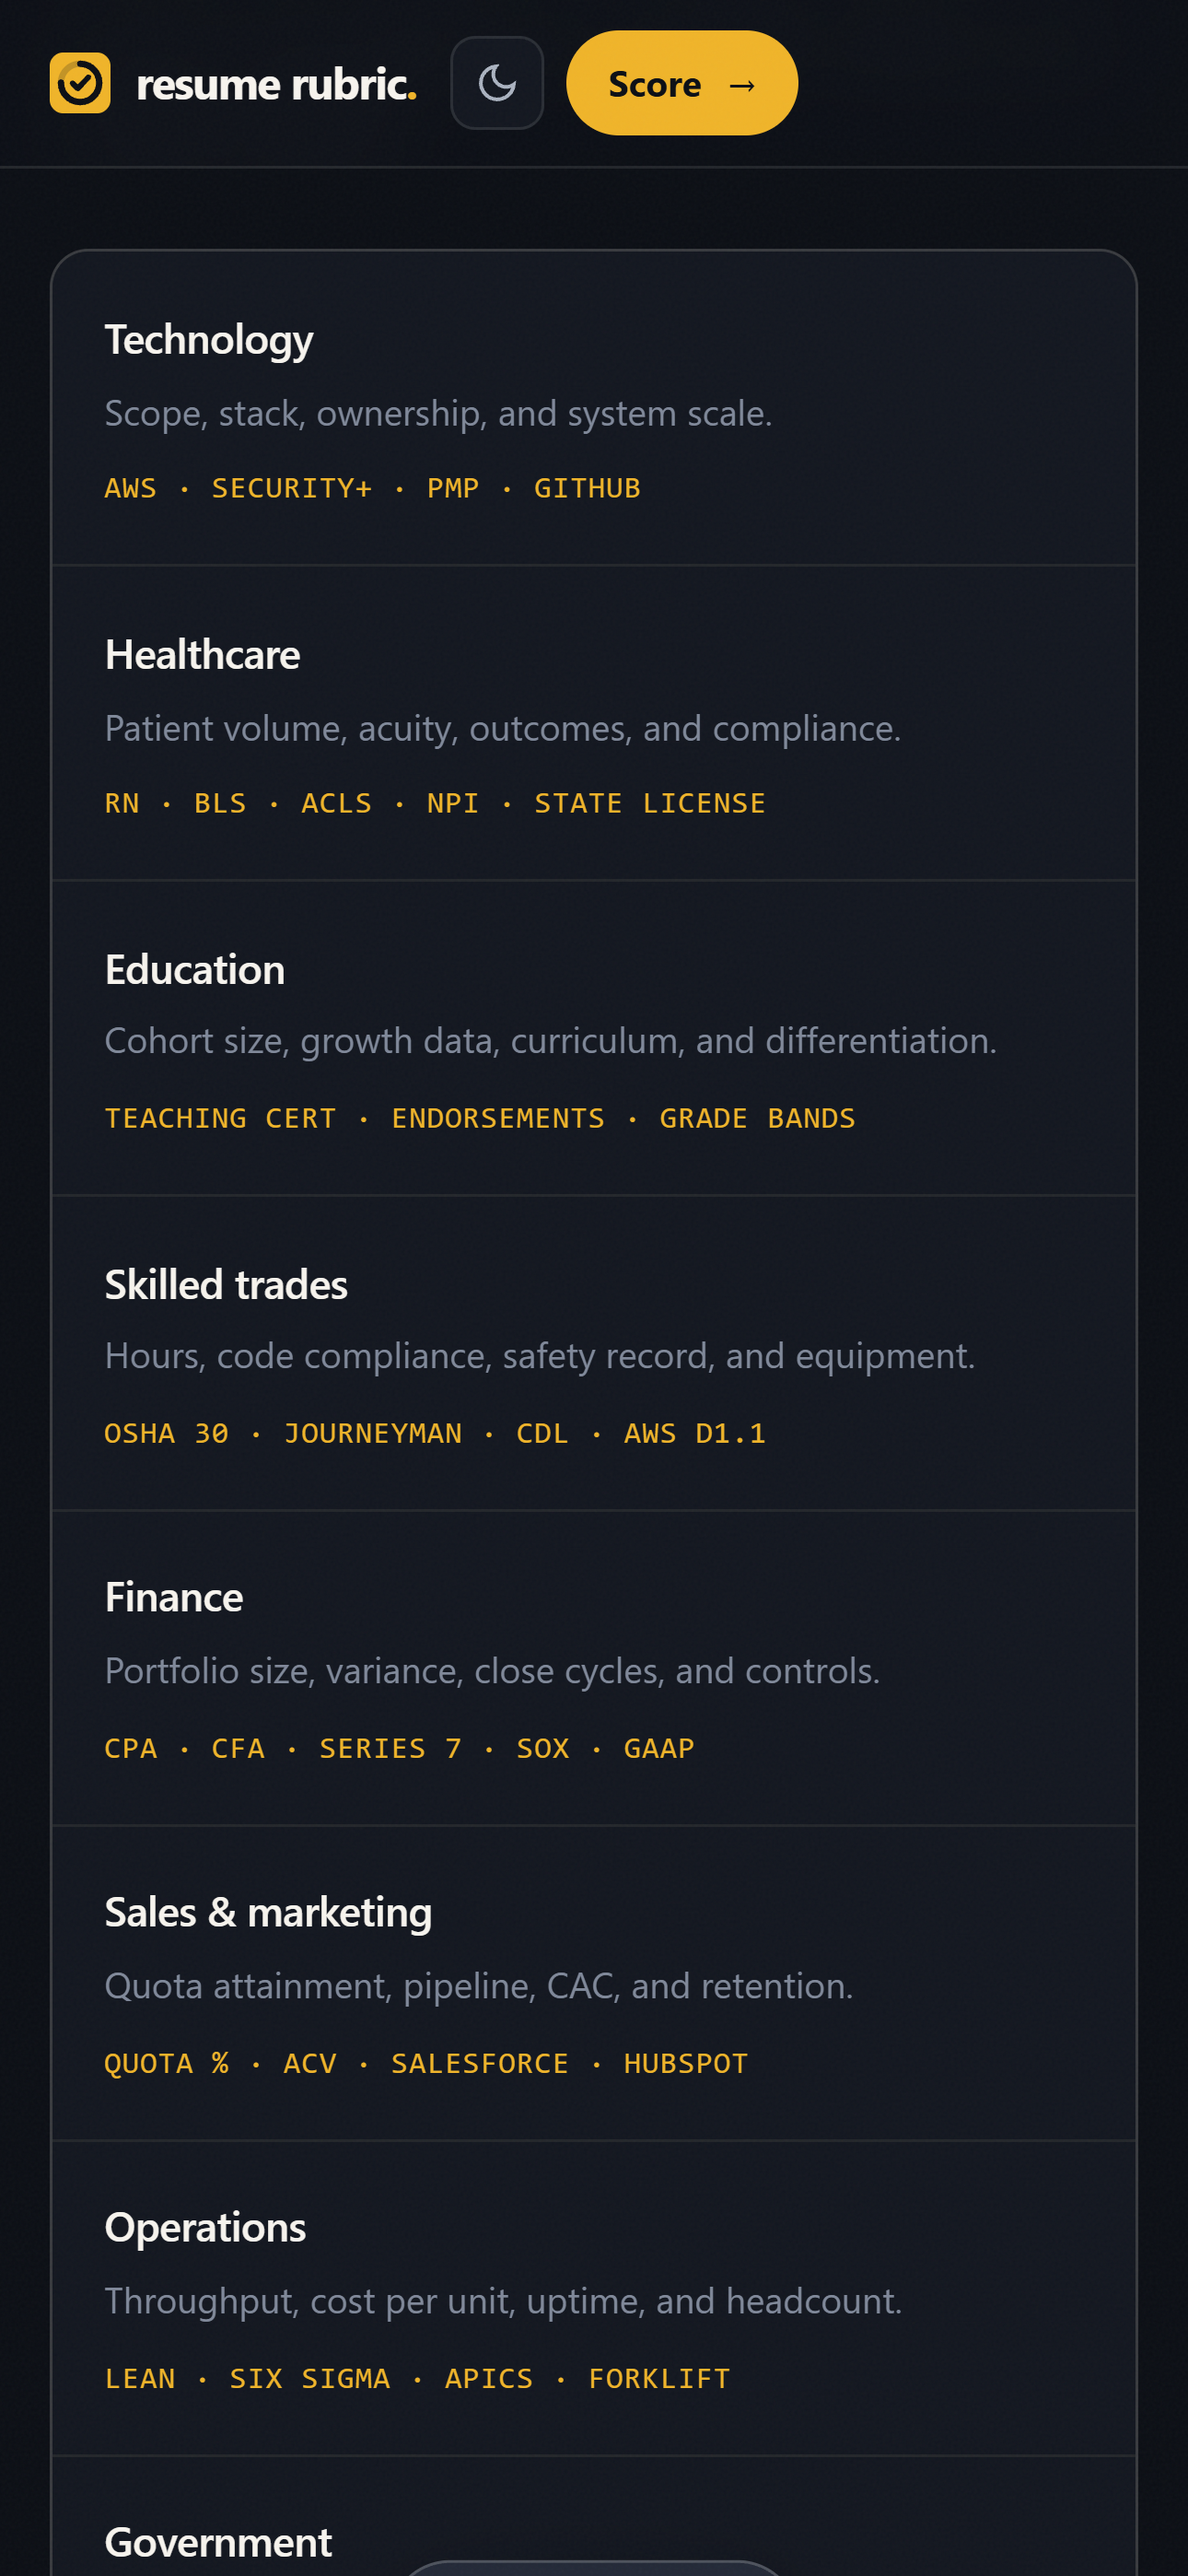
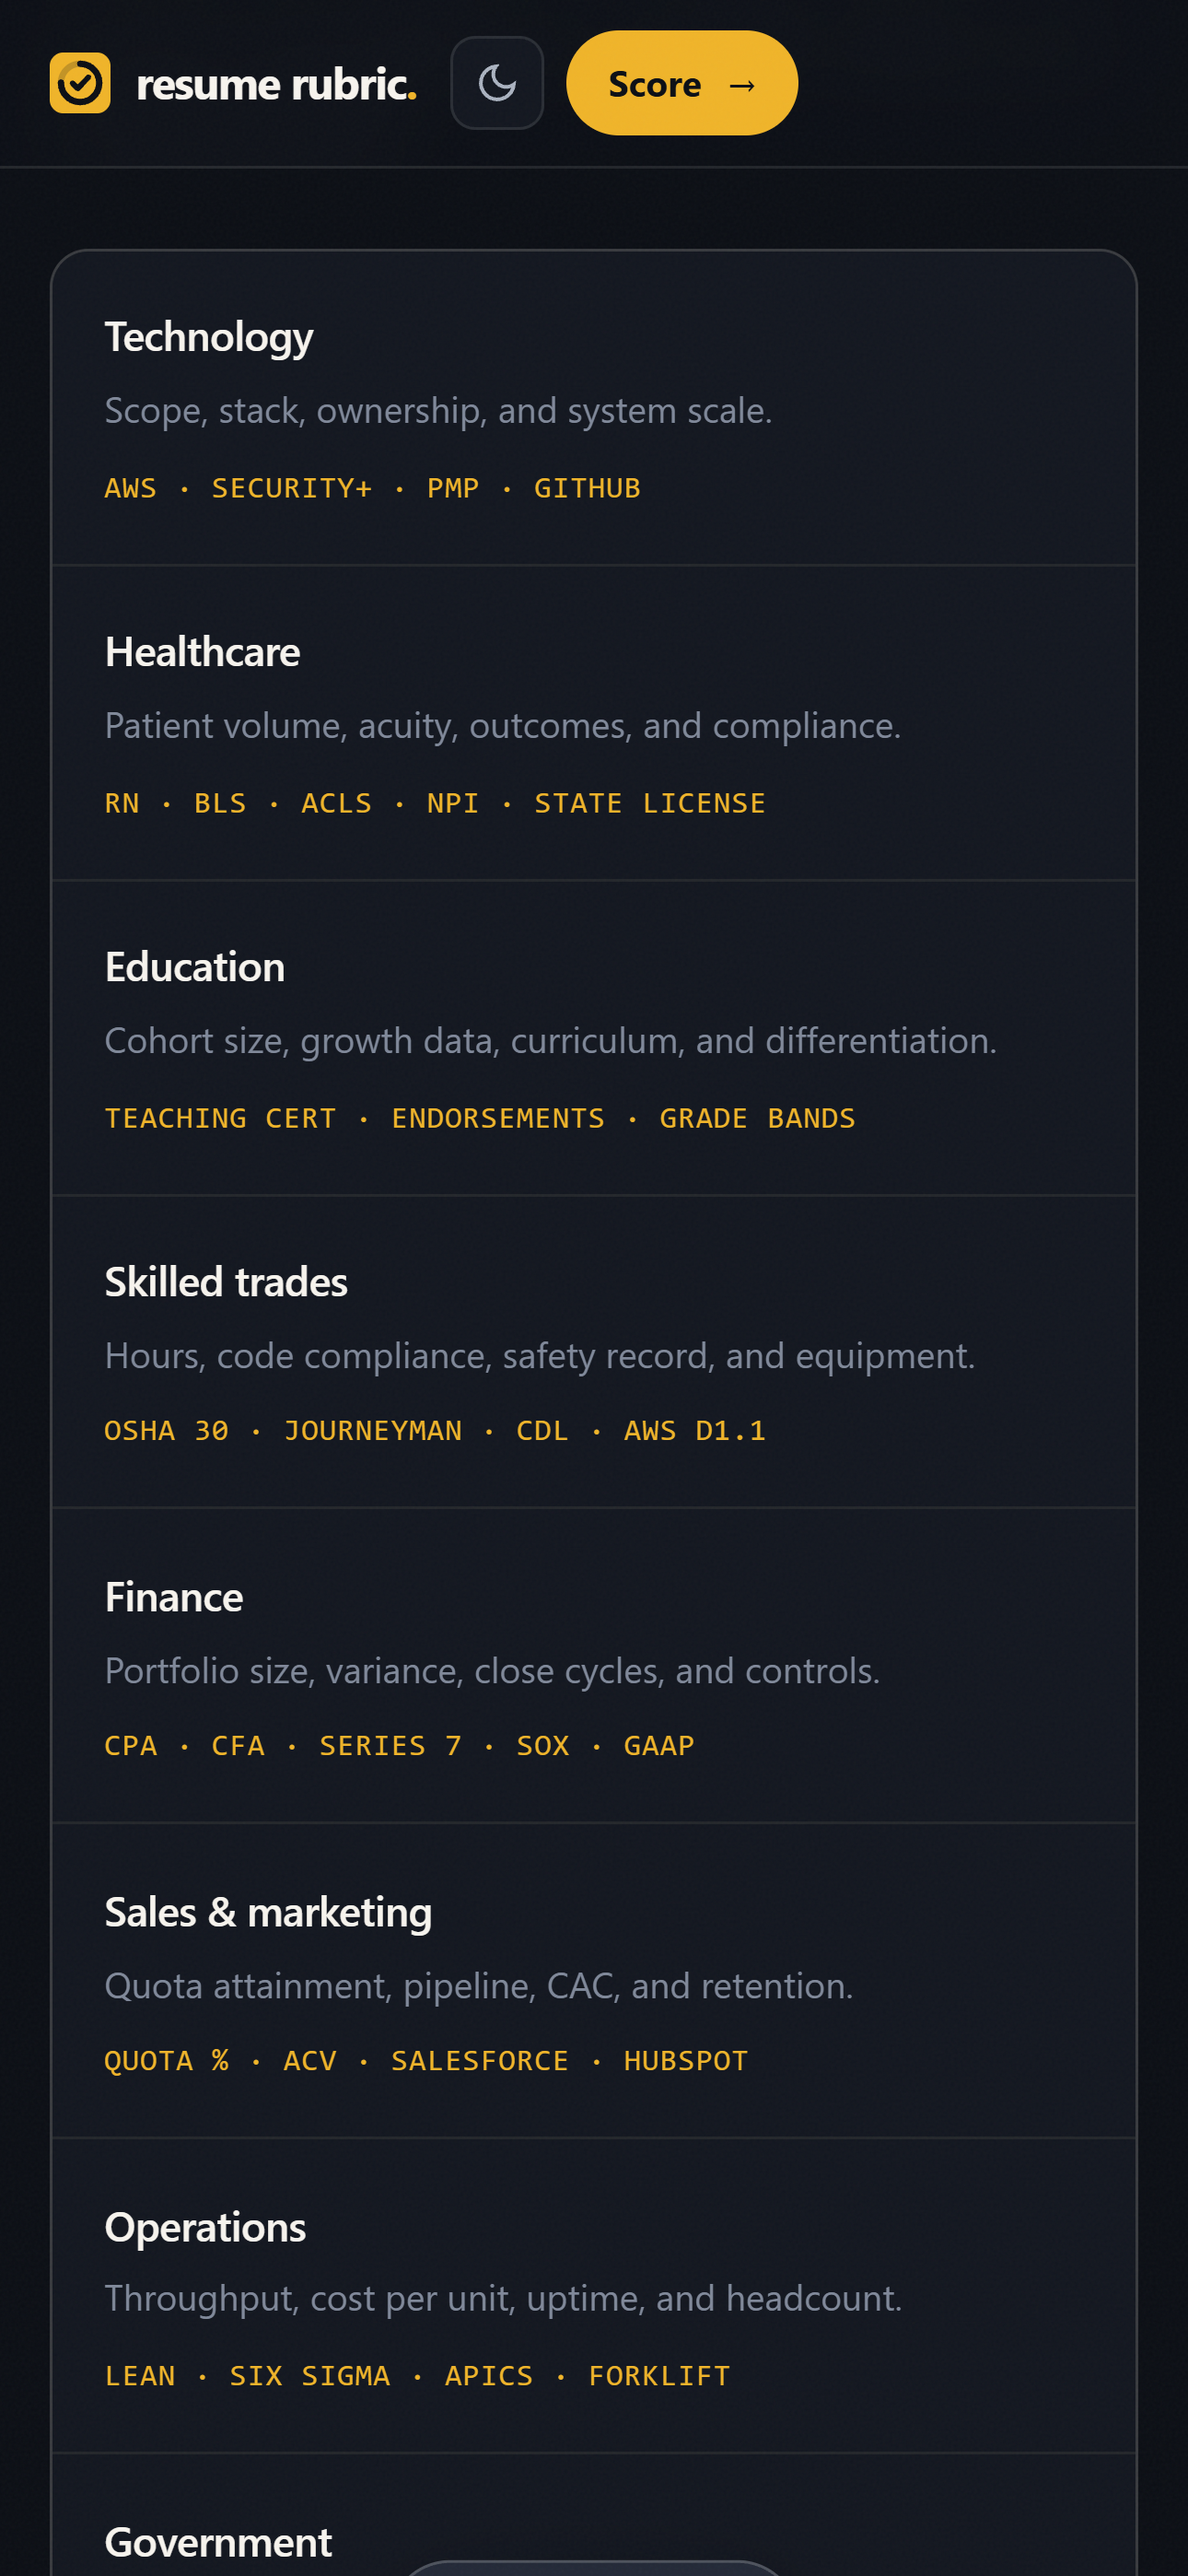
Put the card label above its value, not beside it
Looking at the privacy screenshot at full size rather than as a thumbnail
showed the card layout was wasting a third of the width. The label sat in a
fixed 7rem gutter to the left of the value, but a cell in these tables holds
a verdict and then a note, not a single string, so the gutter was empty for
every line after the first. On a 360px phone that left the explanation
wrapping in half the width it had available, with a tall blank column beside
it.

The label now sits on its own line above the value. The prose gets the full
width of the card, the verdict and its note sit together, and the longest
label, "Typical AI resume tool", stops wrapping onto two lines. It also
removes the rule that pinned cell children to the value column, which only
existed to work around the gutter.

Also stops the first cell printing a label above the card heading. That cell
is the row's own name and heads the card, so it needs no label, but only the
comparison table was getting away with it because its first column happens to
have a blank header. The rubric table was printing "DIMENSION" above every
heading.

diff --git a/docs/index.html b/docs/index.html
@@ -659,29 +659,24 @@ td small{display:block;color:var(--faint);font-size:.8125rem;margin-top:.2rem;li
     padding:0 .9rem;margin-bottom:.7rem;
   }
   .stacks tbody tr:last-child{margin-bottom:0}
-  .stacks tbody td{
-    padding:.6rem 0;border-bottom:1px solid var(--border);
-    display:grid;grid-template-columns:7rem 1fr;gap:.75rem;align-items:start;
-  }
+  /* The column name sits above its value on its own line rather than beside it.
+     Beside it costs a third of the width to a gutter that is empty for every
+     line after the first, because a cell holds a verdict and a note, not one
+     string. */
+  .stacks tbody td{padding:.7rem 0;border-bottom:1px solid var(--border)}
   .stacks tbody tr td:last-child{border-bottom:none}
   .stacks tbody td::before{
-    content:attr(data-label);
+    content:attr(data-label);display:block;
     font-family:var(--mono);font-size:.625rem;letter-spacing:.1em;text-transform:uppercase;
-    color:var(--faint);line-height:1.9;
+    color:var(--faint);margin-bottom:.3rem;
   }
-  .stacks tbody td:first-child{display:block;font-weight:600;font-size:.9375rem;padding-top:.85rem}
-  .stacks tbody td:first-child::before{content:none}
-  /* a cell can hold more than a bare string, such as a <small> note. Without
-     this those become grid items of their own and land under the label. */
-  .stacks tbody td > *{grid-column:2}
-  .stacks tbody td:first-child > *{grid-column:auto}
-  /* defensive: a column with no heading has nothing to label, so it spans the
-     card rather than leaving an empty label gutter */
-  .stacks tbody td[data-label=""]{grid-template-columns:1fr}
+  /* the row's own name heads the card, so it needs no label of its own, whether
+     its column happens to be headed or blank */
+  .stacks tbody td:first-child{font-weight:600;font-size:.9375rem;padding-top:.85rem}
+  .stacks tbody td:first-child::before,
   .stacks tbody td[data-label=""]::before{display:none}
   /* the comparison table tints our own column. As a full width block in a card
-     that reads far too heavy, so mark it with a rule and a coloured label
-     instead. */
+     that reads far too heavy, so mark it with a rule and a coloured label. */
   .tbl-wrap.compare tbody td:nth-child(2){
     background:none;border-left:2px solid var(--accent);padding-left:.7rem;
   }

diff --git a/index.html b/index.html
@@ -659,29 +659,24 @@ td small{display:block;color:var(--faint);font-size:.8125rem;margin-top:.2rem;li
     padding:0 .9rem;margin-bottom:.7rem;
   }
   .stacks tbody tr:last-child{margin-bottom:0}
-  .stacks tbody td{
-    padding:.6rem 0;border-bottom:1px solid var(--border);
-    display:grid;grid-template-columns:7rem 1fr;gap:.75rem;align-items:start;
-  }
+  /* The column name sits above its value on its own line rather than beside it.
+     Beside it costs a third of the width to a gutter that is empty for every
+     line after the first, because a cell holds a verdict and a note, not one
+     string. */
+  .stacks tbody td{padding:.7rem 0;border-bottom:1px solid var(--border)}
   .stacks tbody tr td:last-child{border-bottom:none}
   .stacks tbody td::before{
-    content:attr(data-label);
+    content:attr(data-label);display:block;
     font-family:var(--mono);font-size:.625rem;letter-spacing:.1em;text-transform:uppercase;
-    color:var(--faint);line-height:1.9;
+    color:var(--faint);margin-bottom:.3rem;
   }
-  .stacks tbody td:first-child{display:block;font-weight:600;font-size:.9375rem;padding-top:.85rem}
-  .stacks tbody td:first-child::before{content:none}
-  /* a cell can hold more than a bare string, such as a <small> note. Without
-     this those become grid items of their own and land under the label. */
-  .stacks tbody td > *{grid-column:2}
-  .stacks tbody td:first-child > *{grid-column:auto}
-  /* defensive: a column with no heading has nothing to label, so it spans the
-     card rather than leaving an empty label gutter */
-  .stacks tbody td[data-label=""]{grid-template-columns:1fr}
+  /* the row's own name heads the card, so it needs no label of its own, whether
+     its column happens to be headed or blank */
+  .stacks tbody td:first-child{font-weight:600;font-size:.9375rem;padding-top:.85rem}
+  .stacks tbody td:first-child::before,
   .stacks tbody td[data-label=""]::before{display:none}
   /* the comparison table tints our own column. As a full width block in a card
-     that reads far too heavy, so mark it with a rule and a coloured label
-     instead. */
+     that reads far too heavy, so mark it with a rule and a coloured label. */
   .tbl-wrap.compare tbody td:nth-child(2){
     background:none;border-left:2px solid var(--accent);padding-left:.7rem;
   }

diff --git a/docs/for-organizations/index.html b/docs/for-organizations/index.html
@@ -138,22 +138,22 @@ thead th{font-family:var(--mono);font-size:.6875rem;letter-spacing:.14em;text-tr
     padding:0 .9rem;margin-bottom:.7rem;
   }
   .stacks tbody tr:last-child{margin-bottom:0}
-  .stacks tbody td{
-    padding:.6rem 0;border-bottom:1px solid var(--border);
-    display:grid;grid-template-columns:7rem 1fr;gap:.75rem;align-items:start;
-  }
+  /* The column name sits above its value on its own line rather than beside it.
+     Beside it costs a third of the width to a gutter that is empty for every
+     line after the first, because a cell holds a verdict and a note, not one
+     string. */
+  .stacks tbody td{padding:.7rem 0;border-bottom:1px solid var(--border)}
   .stacks tbody tr td:last-child{border-bottom:none}
   .stacks tbody td::before{
-    content:attr(data-label);
+    content:attr(data-label);display:block;
     font-family:var(--mono);font-size:.625rem;letter-spacing:.1em;text-transform:uppercase;
-    color:var(--faint);line-height:1.9;
+    color:var(--faint);margin-bottom:.3rem;
   }
-  .stacks tbody td:first-child{display:block;font-weight:600;font-size:.9375rem;padding-top:.85rem}
-  .stacks tbody td:first-child::before{content:none}
-  /* a cell can hold more than a bare string, such as a <small> note. Without
-     this those become grid items of their own and land under the label. */
-  .stacks tbody td > *{grid-column:2}
-  .stacks tbody td:first-child > *{grid-column:auto}
+  /* the row's own name heads the card, so it needs no label of its own, whether
+     its column happens to be headed or blank */
+  .stacks tbody td:first-child{font-weight:600;font-size:.9375rem;padding-top:.85rem}
+  .stacks tbody td:first-child::before,
+  .stacks tbody td[data-label=""]::before{display:none}
 }
 tbody tr:last-child td{border-bottom:none}
 td strong{font-weight:600}

diff --git a/organizations.html b/organizations.html
@@ -138,22 +138,22 @@ thead th{font-family:var(--mono);font-size:.6875rem;letter-spacing:.14em;text-tr
     padding:0 .9rem;margin-bottom:.7rem;
   }
   .stacks tbody tr:last-child{margin-bottom:0}
-  .stacks tbody td{
-    padding:.6rem 0;border-bottom:1px solid var(--border);
-    display:grid;grid-template-columns:7rem 1fr;gap:.75rem;align-items:start;
-  }
+  /* The column name sits above its value on its own line rather than beside it.
+     Beside it costs a third of the width to a gutter that is empty for every
+     line after the first, because a cell holds a verdict and a note, not one
+     string. */
+  .stacks tbody td{padding:.7rem 0;border-bottom:1px solid var(--border)}
   .stacks tbody tr td:last-child{border-bottom:none}
   .stacks tbody td::before{
-    content:attr(data-label);
+    content:attr(data-label);display:block;
     font-family:var(--mono);font-size:.625rem;letter-spacing:.1em;text-transform:uppercase;
-    color:var(--faint);line-height:1.9;
+    color:var(--faint);margin-bottom:.3rem;
   }
-  .stacks tbody td:first-child{display:block;font-weight:600;font-size:.9375rem;padding-top:.85rem}
-  .stacks tbody td:first-child::before{content:none}
-  /* a cell can hold more than a bare string, such as a <small> note. Without
-     this those become grid items of their own and land under the label. */
-  .stacks tbody td > *{grid-column:2}
-  .stacks tbody td:first-child > *{grid-column:auto}
+  /* the row's own name heads the card, so it needs no label of its own, whether
+     its column happens to be headed or blank */
+  .stacks tbody td:first-child{font-weight:600;font-size:.9375rem;padding-top:.85rem}
+  .stacks tbody td:first-child::before,
+  .stacks tbody td[data-label=""]::before{display:none}
 }
 tbody tr:last-child td{border-bottom:none}
 td strong{font-weight:600}
